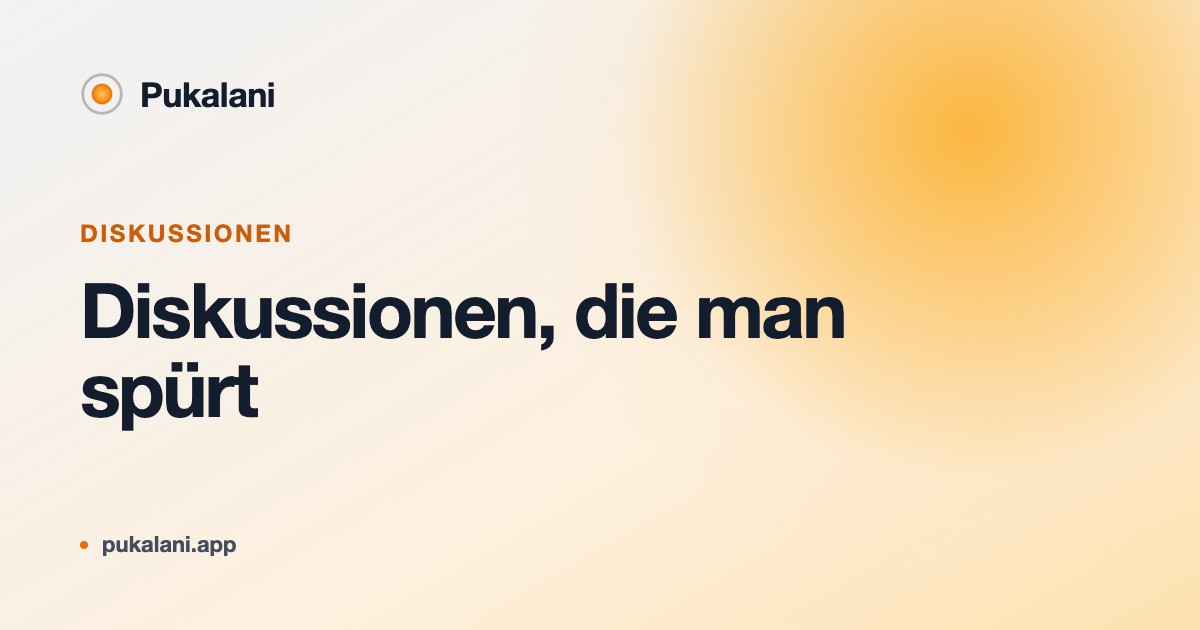
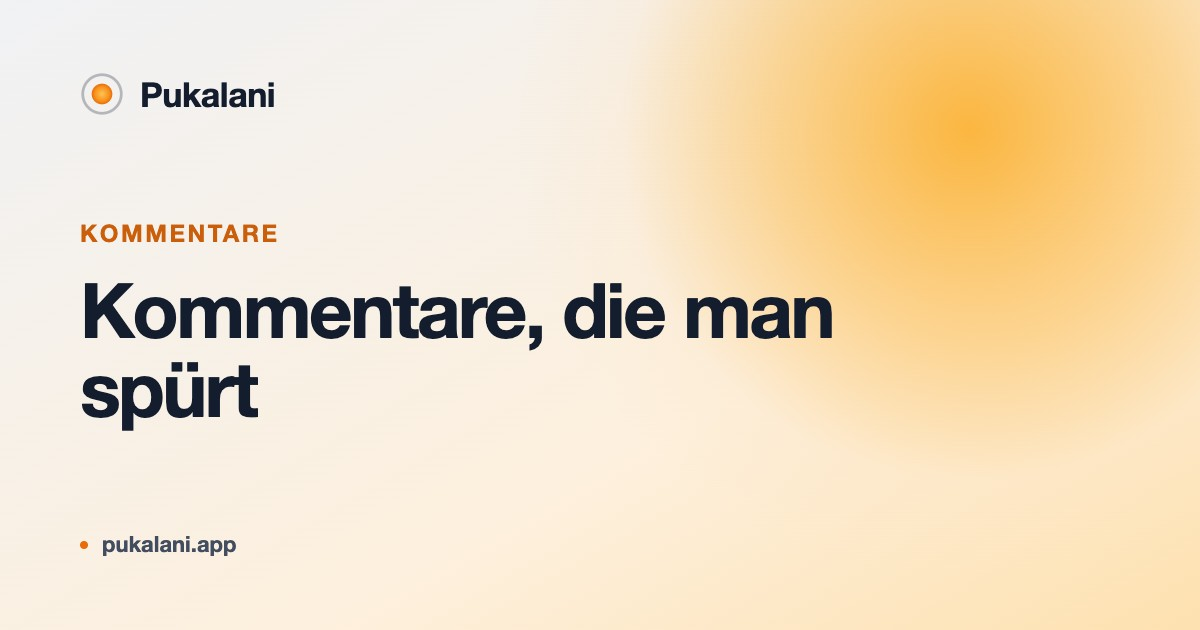
feat(marketing,help,pages): Analytics Paket 3+4 — Bewerbung, Hilfe, Datenschutz
Landing: Produktseite /products/analytics (Slug beidsprachig gleich),
7. Produkt in Ausklapper/Karten/Sitemap, Pricing-Highlight bei Personal
und im Personal-inklusive-Satz von Pro; Haekchen-Zaehlung folgt jetzt dem
Text (te() bis zur ersten Luecke) statt einer festen 6. OG-Bilder neu
erzeugt (inkl. Nachzieher diskussionen: zeigte noch das alte Wording).
Hilfe: anleitung/produkte/analytics + Produkt-/Plan-Tabellen. Recht:
Abschnitt 'Reichweitenmessung' in der Datenschutz-Vorlage neuer
Communities und im Landing-Datenschutz. Texte von David abgenommen.

Changed region(s): [[0.0617, 0.4524, 0.7092, 0.573], [0.0617, 0.3317, 0.2467, 0.3921]]

diff --git a/apps/marketing/app/pages/produkte/[slug].vue b/apps/marketing/app/pages/produkte/[slug].vue
@@ -1,6 +1,6 @@
 <script setup lang="ts">
 // Produkt-Cluster-Seiten (§3.1): diskussionen · moderation · branding ·
-// beitraege · kurse · events.
+// beitraege · kurse · events · analytics.
 //
 // Claim-Gate-Umsetzung (§2.4, Entscheidung David 2026-07-24): Kurse und Events
 // SIND Early Access. Ihre Seiten existieren, aber sie dürfen nicht wie ein
@@ -25,7 +25,7 @@ defineI18nRoute({ paths: { en: '/products/[slug]', de: '/produkte/[slug]' } })
 // und die Early-Access-Liste ist ein Claim-Gate (§2.4) — sie darf nicht in
 // zwei Fassungen existieren.
 const route = useRoute()
-const { t, locale } = useI18n()
+const { t, te, locale } = useI18n()
 
 /**
  * Der Slug in der Adresse gehört der AKTUELLEN Sprache; gearbeitet wird ab
@@ -61,7 +61,19 @@ setI18nParams({
   en: { slug: slugForLocale(productKey, 'en') },
 })
 
-const HIGHLIGHT_COUNT = 6
+/**
+ * WIE VIELE PUNKTE „Was drin ist" zeigt, sagt der TEXT — nicht diese Datei.
+ * Bis 2026-08-04 stand hier eine feste 6, weil alle sechs Produkte je sechs
+ * Zeilen hatten. Analytics hat vier abgenommene Zeilen: mit der festen Zahl
+ * stünden auf der Seite zwei rohe i18n-Schlüssel
+ * („marketing.products.items.analytics.highlights.4") — vue-i18n gibt bei
+ * einem fehlenden Schlüssel den Schlüssel selbst zurück, es gibt also weder
+ * Fehler noch leere Liste, nur sichtbaren Unsinn.
+ * Gezählt wird deshalb bis zur ersten Lücke (`te` = „gibt es diesen Schlüssel
+ * in dieser Sprache?"). Die Obergrenze ist nur ein Notnagel gegen eine
+ * Endlosschleife, falls `te` je etwas anderes beantwortet als `t`.
+ */
+const HIGHLIGHT_MAX = 12
 const localePath = useLocalePath()
 const { start, demo, signIn } = useProductLinks()
 useReveal()
@@ -69,9 +81,15 @@ useReveal()
 const isEarlyAccess = computed(() => EARLY_ACCESS_KEYS.includes(productKey))
 
 const base = `marketing.products.items.${productKey}`
-const highlights = computed(() =>
-  Array.from({ length: HIGHLIGHT_COUNT }, (_, i) => t(`${base}.highlights.${i}`)),
-)
+const highlights = computed(() => {
+  const lines: string[] = []
+  for (let i = 0; i < HIGHLIGHT_MAX; i++) {
+    const key = `${base}.highlights.${i}`
+    if (!te(key)) break
+    lines.push(t(key))
+  }
+  return lines
+})
 
 /**
  * Claim-Gate im Abschluss-CTA (§2.4): auf einer Early-Access-Seite gibt es

diff --git a/packages/pages/shared/legalTemplates.ts b/packages/pages/shared/legalTemplates.ts
@@ -157,6 +157,11 @@ verarbeitet die Daten in deinem Auftrag.
 [AUSFÜLLEN: Rechenzentrums-Dienstleister und Standort aus deinem Vertrag — im Standardfall ein Serverstandort in Deutschland]
 [AUSFÜLLEN: bestätigen, dass mit den genannten Stellen Verträge zur Auftragsverarbeitung nach Art. 28 DSGVO bestehen, und die Liste vollständig halten]
 
+## Reichweitenmessung
+
+Zur Reichweitenmessung setzen wir Plausible Analytics ein, selbst gehostet in der EU. Dabei werden keine Cookies gesetzt und keine personenbezogenen Daten gespeichert.
+[AUSFÜLLEN: nur behalten, wenn die Besucherstatistik in deiner Community eingeschaltet ist — sonst diesen Abschnitt löschen; misst du in eine eigene Plausible-Site, hier deren Betreiber und Standort nennen]
+
 ## Weitere Empfänger
 
 [AUSFÜLLEN: Empfänger außerhalb der Auftragsverarbeitung — etwa E-Mail-Versand, Zahlungsdienstleister, Analyse — je Empfänger Zweck und Rechtsgrundlage; wenn es keine gibt: „Keine."]
@@ -231,6 +236,11 @@ data on your behalf.
 [FILL IN: name and address of the platform operator, from your contract]
 [FILL IN: data centre provider and location, from your contract — by default a server location in Germany]
 [FILL IN: confirm that data processing agreements under Art. 28 GDPR are in place with the parties named here, and keep the list complete]
+
+## Audience measurement
+
+For audience measurement we use Plausible Analytics, self-hosted in the EU. No cookies are set and no personal data is stored.
+[FILL IN: only keep this if visitor statistics are switched on for your community — otherwise delete this section; if you measure into your own Plausible site, name its operator and location here]
 
 ## Other recipients
 

diff --git a/apps/marketing/app/components/MarketingHeader.vue b/apps/marketing/app/components/MarketingHeader.vue
@@ -17,7 +17,7 @@ const { t, locale } = useI18n()
 const localePath = useLocalePath()
 const { start } = useProductLinks()
 
-// Die sechs Produkte der Hauptnavigation, am KANONISCHEN Schlüssel. Reihenfolge
+// Die Produkte der Hauptnavigation, am KANONISCHEN Schlüssel. Reihenfolge
 // = Reihenfolge im Bausteine-Abschnitt; Texte kommen aus i18n
 // (marketing.nav.products.items.<key>), nur Icon und Early-Access-Flagge stehen
 // im Code. Der Slug in der Adresse ist übersetzt und kommt aus
@@ -29,6 +29,10 @@ const PRODUCTS = [
   { key: 'beitraege', icon: 'i-ph-broadcast-bold', ea: true },
   { key: 'kurse', icon: 'i-ph-graduation-cap-bold', ea: true },
   { key: 'events', icon: 'i-ph-calendar-check-bold', ea: true },
+  // Analytics ist GEBAUT und im Angebot (ab Personal) — also keine
+  // Early-Access-Pille: die kennzeichnet nur, was noch nicht käuflich ist
+  // (§2.4). Dass es einen Plan voraussetzt, sagt die Preistabelle.
+  { key: 'analytics', icon: 'i-ph-chart-line-up-bold', ea: false },
 ] as const satisfies readonly { key: ProductKey, icon: string, ea: boolean }[]
 
 /**

diff --git a/apps/marketing/shared/marketing.ts b/apps/marketing/shared/marketing.ts
@@ -31,7 +31,7 @@ export type MarketingLocale = 'de' | 'en'
  * <key>`), die OG-Bilder (`public/og/products-<key>-<locale>.jpg`) und die
  * Early-Access-Liste unten. Nur die URL ist übersetzt.
  */
-export const PRODUCT_KEYS = ['diskussionen', 'moderation', 'branding', 'beitraege', 'kurse', 'events'] as const
+export const PRODUCT_KEYS = ['diskussionen', 'moderation', 'branding', 'beitraege', 'kurse', 'events', 'analytics'] as const
 
 export type ProductKey = (typeof PRODUCT_KEYS)[number]
 
@@ -65,6 +65,11 @@ export const PRODUCT_SLUGS: SlugTable<ProductKey> = {
   beitraege: { de: 'beitraege', en: 'posts' },
   kurse: { de: 'kurse', en: 'courses' },
   events: { de: 'events', en: 'events' },
+  // Vierter Eintrag, der in beiden Sprachen gleich heißt: „Analytics" ist auch
+  // im Deutschen das gebräuchliche Wort (so steht es im Produkt-Manifest und
+  // im Dashboard). Keine routeRules-Weiterleitung nötig — die Seite ist neu,
+  // es gab nie eine andere Adresse dafür.
+  analytics: { de: 'analytics', en: 'analytics' },
 }
 
 /**

diff --git a/apps/marketing/app/components/BlocksSection.vue b/apps/marketing/app/components/BlocksSection.vue
@@ -2,9 +2,17 @@
 // Szene 4 — Gear-up-Montage (§6.4): der Held bekommt seine Werkzeuge. Ton
 // wärmt weiter (tone-dawn). Claim-Gate §2.4: belegte Bausteine = „Verfügbar",
 // Feed/Kurse/Events ehrlich als „Early Access" (nie wie aktueller Tarif).
+//
+// DIE ANZAHL KOMMT AUS DEM PRODUKT-KATALOG, nicht aus einer Zahl im Code: die
+// Karten hier sind genau die Produkte aus `PRODUCT_KEYS` in derselben
+// Reihenfolge (Icon, Text und Status stehen je Karte in i18n). Bis 2026-08-04
+// stand hier `[0, 1, 2, 3, 4, 5]` — ein siebtes Produkt hätte auf der
+// Startseite still gefehlt, ohne dass irgendetwas kaputtgeht.
+import { PRODUCT_KEYS } from '#shared/marketing'
+
 const { t } = useI18n()
 const items = computed(() =>
-  [0, 1, 2, 3, 4, 5].map(i => ({
+  Array.from({ length: PRODUCT_KEYS.length }, (_, i) => ({
     icon: t(`marketing.blocks.items.${i}.icon`),
     title: t(`marketing.blocks.items.${i}.title`),
     text: t(`marketing.blocks.items.${i}.text`),

diff --git a/apps/marketing/app/pages/datenschutz.vue b/apps/marketing/app/pages/datenschutz.vue
@@ -1,10 +1,16 @@
 <script setup lang="ts">
 // Verbindliche Datenschutzerklärung der Marketing-Domain. Die TECHNISCHE
 // Erklärseite (/dsgvo) ist bewusst etwas anderes und wird von hier verlinkt.
+//
+// NEUN Abschnitte seit 2026-08-04: „Reichweitenmessung" kam dazu, weil DIESE
+// Seite selbst mit Plausible misst (app/app.config.ts, `pukalani.analytics`).
+// Ein Dienst, der auf der Seite läuft und in ihrer eigenen Erklärung nicht
+// vorkommt, ist die Lücke, die man später niemandem erklären kann — auch wenn
+// der Rest der Seite noch Entwurf ist.
 definePageMeta({ layout: 'site' })
 defineI18nRoute({ paths: { en: '/privacy', de: '/datenschutz' } })
 </script>
 
 <template>
-  <LegalPage scope="privacy" :section-count="8" />
+  <LegalPage scope="privacy" :section-count="9" />
 </template>

diff --git a/apps/help/content/anleitung/3.produkte/7.analytics.md b/apps/help/content/anleitung/3.produkte/7.analytics.md
@@ -1,0 +1,82 @@
+---
+title: "Analytics: Besucherzahlen deiner Community"
+description: Besucher, Seitenaufrufe, Top-Seiten und Quellen — cookielos gemessen mit Plausible, sichtbar im Dashboard deiner Community.
+navigation:
+  title: Analytics
+  icon: i-ph-chart-line-up
+---
+
+Du siehst im Dashboard, wie viele Menschen deine Community besuchen — ohne
+Cookies, ohne Zustimmungs-Banner und ohne personenbezogene Daten. Gemessen wird
+mit **Plausible** auf unserem eigenen Server in der EU.
+
+::note
+**Ab Plan Personal.** In Basic wird nichts gemessen und der Schalter bleibt
+gesperrt (siehe [Abrechnung](/anleitung/abrechnung)).
+::
+
+## Aktivieren
+
+Ein Schalter, mehr ist es nicht:
+
+1. Öffne im Dashboard deiner Community **Analytics**.
+2. Stelle **Messung aktiv** an.
+
+Ab dem nächsten Seitenaufruf melden sich deine Seiten selbst — du musst nichts
+einbauen, nichts kopieren und dich nirgends anmelden.
+
+Zum Abschalten legst du den Schalter wieder um. Danach wird auf deinen Seiten
+kein Script mehr geladen; die bis dahin gemessenen Zahlen bleiben.
+
+::note
+Den Schalter bedient, wer **Owner** deiner Community ist — dieselbe Rolle, die
+auch das Einbetten und die Rechtsseiten verantwortet (siehe
+[Mitglieder & Rollen](/anleitung/mitglieder-und-rollen)).
+::
+
+## Was gemessen wird — und was nicht
+
+Im Dashboard stehen danach:
+
+| Was | Zeitraum |
+|---|---|
+| Besucher heute | der laufende Tag |
+| Besucher, Seitenaufrufe, Verweildauer | die letzten 30 Tage |
+| Besucher pro Tag als Balkenreihe | die letzten 30 Tage |
+| Meistbesuchte Seiten | die letzten 30 Tage |
+| Woher die Besucher kommen | die letzten 30 Tage |
+
+Zwei Dinge, die man wissen sollte, bevor man sich über eine Zahl wundert:
+
+- **Die Zahlen erscheinen wenige Minuten nach dem ersten Besuch.** Frisch
+  aktiviert steht dort zunächst *Noch keine Daten* — das ist kein Fehler. Ruf
+  deine Seite einmal in einem anderen Browser auf, wenn du nicht warten willst.
+- **Die 30-Tage-Ansicht endet gestern.** Der laufende Tag steht separat in der
+  Kachel *Heute*, er ist in den 30 Tagen also nicht enthalten. Die Anzeige
+  selbst aktualisiert sich alle paar Minuten.
+
+**Nicht gemessen** wird alles, was eine Person wiedererkennbar macht: keine
+Cookies, keine Werbe-IDs, keine Profile über Seiten hinweg, keine IP-Adressen in
+der Statistik. Es gibt deshalb auch keine Liste einzelner Besucher — nur Zahlen.
+
+Genau das ist der Grund, warum du für die Messung **kein Zustimmungs-Banner**
+brauchst. Ein Satz dazu gehört trotzdem in die Datenschutzerklärung deiner
+Community (siehe [Seiten](/anleitung/produkte/seiten)) — etwa: *Zur
+Reichweitenmessung setzen wir Plausible Analytics ein, selbst gehostet in der
+EU. Dabei werden keine Cookies gesetzt und keine personenbezogenen Daten
+gespeichert.* Verantwortlich für den Text bist du, nicht die Plattform.
+
+## Eigene Plausible-Site (Erweitert)
+
+Du hast schon eine eigene Site auf unserer Plausible-Instanz und willst deine
+Zahlen dort sehen? Dann trage unter **Erweitert** ihre **Script-ID** ein (sie
+beginnt mit `pa-` und steht in Plausible unter *Site Installation*).
+
+Drei Dinge dazu:
+
+- Eine eingetragene Script-ID **übersteuert den Schalter oben**: gemessen wird
+  dann ausschließlich in deine Site.
+- Das Feld wieder zu leeren und zu speichern gibt dem Schalter seine Wirkung
+  zurück.
+- Diese Möglichkeit ist für Fortgeschrittene gedacht. Ohne eigene Site brauchst
+  du sie nicht — der Schalter allein genügt.

diff --git a/docs/OPEN-ITEMS.md b/docs/OPEN-ITEMS.md
@@ -34,7 +34,7 @@ Nachmittag hält, plant an F1/F3/F7 vorbei.
 | F1 | **Discussions — Stufen 1–4 live**, dazu das kleine Paket (Regeln-Vorlage für Bestandskunden · Hilfe-Umbenennung „Diskussionen"→„Kommentare"). **Als Nächstes** in Davids Reihenfolge (Konzept Teil 5): Anniversary über die Dienst-Naht · dann GEMEINSAM `posts.editedAt` + Abzeichen mehrfach + Benachrichtigung + Trust Levels · Private Nachrichten nur mit eigenem Konzept. | Mittel | je Stück Tage bis Woche | Nein (Priorisierung) | [DISCUSSIONS-KONZEPT.md](plans/DISCUSSIONS-KONZEPT.md) |
 | F7 | 6 — Wochen | **Bezahlte Communities** — der Owner nimmt Geld von seinen Mitgliedern (Stripe Connect). Eigene Mechanik und eigene Rechtsfragen. **Schluckt D1** (Davids Entscheidung 2026-08-02): bezahlte Pool-Events/-Kurse ergeben erst mit Connect Sinn — sonst landete das Ticketgeld beim Betreiber und der Owner bräuchte je Preis einen lookup_key von David. Events-Hälfte technisch M (S7+A6 haben den alten Webhook-Wartegrund erledigt), Kurse-Hälfte L/XL (community-scoped Entitlements sind unentworfen). | Mittel | XL | Ja: Rechtsfragen | nach dem Go-Live; erst muss Geldfluss 1 (A6) ankommen |
 | F3 | 7 — Wochen | **Silo → Pool:** `comments` und `portfolio` laufen als eigene Instanzen. Langfristig ist der Pool das Produkt, Silo bleibt das Enterprise-Angebot. | Niedrig | XL | Ja: strategisch | eine strategische Entscheidung |
-| F47 | 8 — Tage | **Analytics v2, Rest** (Pakete 1+2 — Aktiv-Schalter via Sammel-Site + Zahlen im Dashboard — live seit 2026-08-04): 3. Bewerbung (Landing-Produktseite, Pricing-Highlight — Texte mit David) · 4. Hilfe-Artikel + Datenschutz-Satz (mit A1) · 5. Optionales (Adblock-Proxy, Events/Goals, Mail-Reports). | Mittel | 3+4 ≈ Nachmittag | Ja: Texte (3) abnicken | [ANALYTICS-V2.md](plans/ANALYTICS-V2.md) |
+| F47 | 8 — Tage | **Analytics v2, Rest = nur noch Optionales** (Pakete 1–4 live seit 2026-08-04 — Schalter, Dashboard-Zahlen, Landing-Seite/Pricing, Hilfe + Datenschutz-Vorlage): Adblock-Proxy · vordefinierte Events/Goals · Plausible-Mail-Reports. Nichts davon drängt. | Niedrig | je S–M | Nein | [ANALYTICS-V2.md](plans/ANALYTICS-V2.md) |
 
 ---
 

diff --git a/docs/OPEN-ITEMS-COMPLETE.md b/docs/OPEN-ITEMS-COMPLETE.md
@@ -29,6 +29,31 @@ nicht auf Anhieb funktionierte, steht am Ende des Eintrags eine Zeile
 
 ---
 
+### Analytics v2, Pakete 3+4 — Bewerbung, Hilfe, Datenschutz ✅ 2026-08-04
+
+**Davids Go** („mach weiter mit paket 3+4"), Texte vorab wörtlich abgenommen
+(AskUserQuestion mit Vorschau). Landing: Produktseite `/products/analytics`
+(+ `/de/produkte/analytics`, Slug in beiden Sprachen gleich — keine
+Redirects), 7. Produkt in Kopf-Ausklapper/Karten/Sitemap, Pricing-Highlight
+„Besucherstatistik ohne Cookies" bei Personal UND im „alles aus
+Personal"-Satz von Pro (nicht angehängt — sonst läse es sich als
+Pro-Zusatz). Hilfe: `anleitung/produkte/analytics` (nur DE — die Hilfe fährt
+bewusst no_prefix/de) + Zeilen in Produkt- und Plan-Tabelle. Recht: der
+abgenommene Plausible-Satz als Abschnitt „Reichweitenmessung" in der
+Datenschutz-VORLAGE (wirkt nur auf neu geseedete Seiten — Bestand ist
+Kundeninhalt; der Satz steht im Hilfe-Artikel zum Kopieren) UND im
+Landing-Datenschutz (Abschnitt 8 — die Landing trackt ja selbst).
+Umsetzung Opus-Agent, Prüfung hier; Dev-Beweise DE+EN (H1, 4 Häkchen,
+Pricing, Sitemap, Hilfe-Artikel), OG-Bilder auf Davids Maschine erzeugt.
+
+**Gelernt:** Die Produktseite zählte ihre Häkchen mit einer FESTEN 6 — ein
+Produkt mit 4 Zeilen hätte zwei ROHE i18n-Schlüssel gerendert (vue-i18n gibt
+fehlende Schlüssel als Text zurück, kein Fehler, kein Leerlauf). Jetzt zählt
+der Text selbst (`te()` bis zur ersten Lücke). Und: der OG-Generator
+überschreibt ALLE Bilder — ein Diff dort ist nicht automatisch Drift,
+diskussionen-de/en waren schlicht seit dem „Kommentare"-Rename veraltet und
+sind mit dem Lauf ehrlich geworden.
+
 ### Analytics v2, Pakete 1+2 — Aktiv-Schalter (Sammel-Site) + Zahlen im Dashboard ✅ 2026-08-04
 
 **Davids Go** („leg los mit 1+2") noch am Tag der v1. Der geplante Weg —

diff --git a/apps/help/content/anleitung/3.produkte/1.index.md b/apps/help/content/anleitung/3.produkte/1.index.md
@@ -1,6 +1,6 @@
 ---
 title: Produkte im Überblick
-description: Welche Produkte es gibt, was verfügbar ist und ab welchem Plan — Kommentare, Beiträge, Seiten, Design und Moderation.
+description: Welche Produkte es gibt, was verfügbar ist und ab welchem Plan — Kommentare, Beiträge, Seiten, Design, Moderation und Analytics.
 navigation:
   icon: i-ph-squares-four
 ---
@@ -17,6 +17,7 @@ verwenden, das du nicht brauchst.
 | [Seiten](/anleitung/produkte/seiten) | Eigene Inhaltsseiten wie Startseite, Regeln, Impressum | Basic |
 | [Design & Themes](/anleitung/produkte/themes) | 26 Farbwelten, eigene Themes und Schriften | Basic |
 | [Beiträge & Feed](/anleitung/produkte/beitraege-und-feed) | Beiträge deiner Mitglieder, Umfragen, Fragen | Personal |
+| [Analytics](/anleitung/produkte/analytics) | Besucher, Seitenaufrufe, Top-Seiten und Quellen — cookielos gemessen | Personal |
 | KI-Assistenz | Zweitmeinung bei der Moderation | Pro |
 | Kurse | Lektionen mit Fortschritt und Bezahl-Zugang | Pro · Early Access |
 | Events | Termine mit Zusagen, Serien und Tickets | Pro · Early Access |

diff --git a/apps/help/content/anleitung/5.abrechnung.md b/apps/help/content/anleitung/5.abrechnung.md
@@ -34,6 +34,7 @@ technischer Umsetzung. Preis nach Aufwand — sprich uns an.
 | [Seiten](/anleitung/produkte/seiten) | ✓ | ✓ | ✓ |
 | [Design & Themes](/anleitung/produkte/themes) | ✓ | ✓ | ✓ |
 | [Beiträge & Feed](/anleitung/produkte/beitraege-und-feed) | | ✓ | ✓ |
+| [Analytics](/anleitung/produkte/analytics) | | ✓ | ✓ |
 | KI-Zweitmeinung bei der Moderation | | | ✓ |
 | Kurse, Events *(Early Access)* | | | ✓ |
 

diff --git a/docs/plans/ANALYTICS-V2.md b/docs/plans/ANALYTICS-V2.md
@@ -1,4 +1,4 @@
-# Analytics v2 — Plan (Pakete 1+2 GEBAUT, 3–5 offen)
+# Analytics v2 — Plan (Pakete 1–4 GEBAUT, nur 5/Optionales offen)
 
 Stand: 2026-08-04. Die v1 UND die Pakete 1+2 dieses Plans sind live —
 Einträge mit Beweisen in [OPEN-ITEMS-COMPLETE.md](../OPEN-ITEMS-COMPLETE.md).
